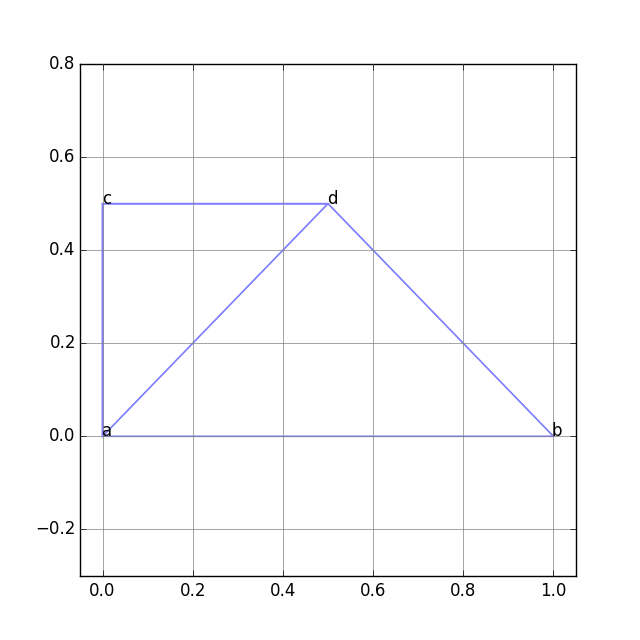
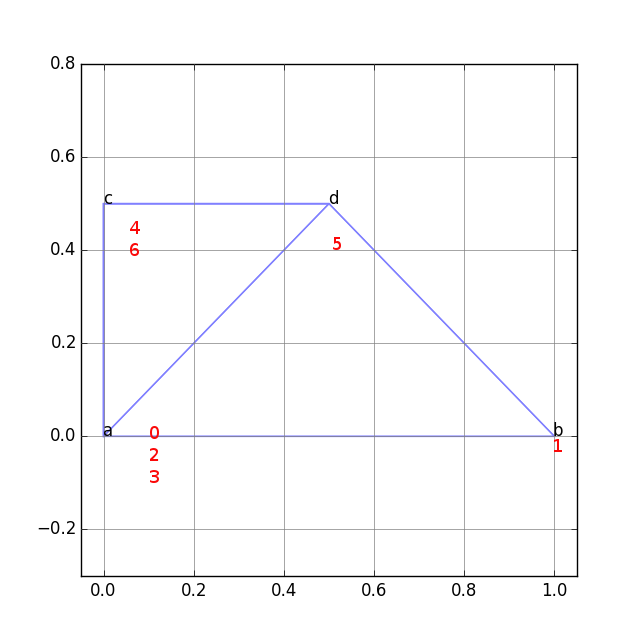
fixed solution pic

diff --git a/README.md b/README.md
@@ -7,7 +7,7 @@ Solution Example:
 # Starting Point
 ![starting](/images/solution_src.png)
 # Ending Point
-![Ending](https://2.bp.blogspot.com/-U_8sCP8ydwY/V6PUGlRWnEI/AAAAAAAAARU/HY1cCHruSkAEqX50gGq3kd21hr_w43uSACLcB/s1600/solution_dest.png)
+![Ending](/images/solution_dest.png)
 
 # Solution (With verticies mapping for easier reading)
 ```
@@ -29,7 +29,7 @@ Solution Example:
 3 4 5 3              -- Facet
 3 5 6 3              -- Facet
 0,0                  -- Final Pos: 0
-1,0                  -- Final Pos: 1
+1,0                  -- Final Pos: 16
 0,0                  -- Final Pos: 2
 0,0                  -- Final Pos: 3
 0,1/2                -- Final Pos: 4
